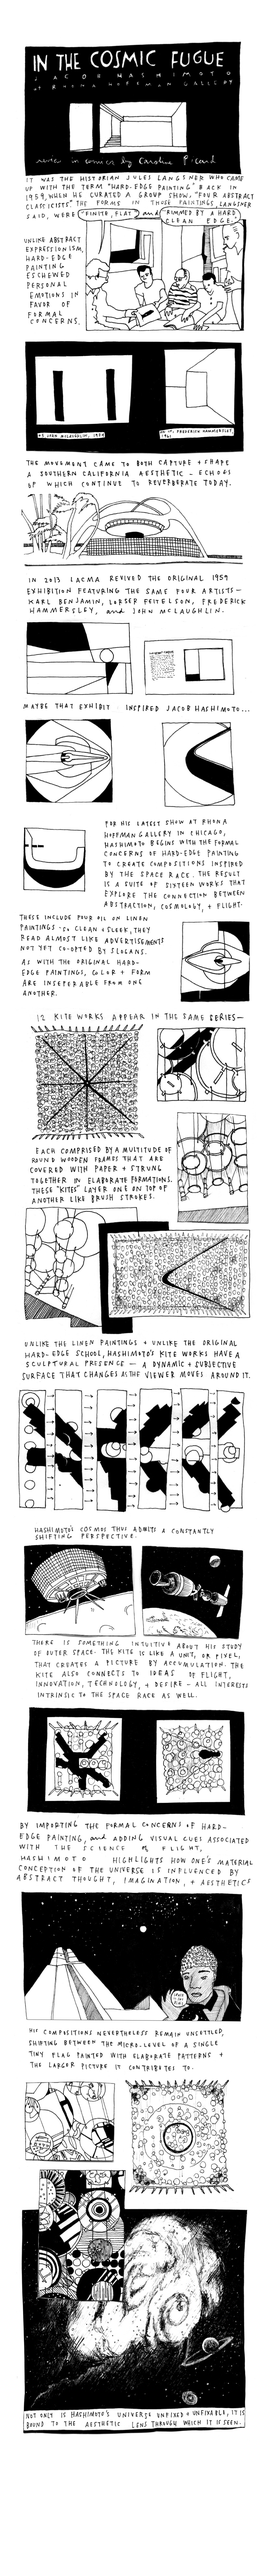
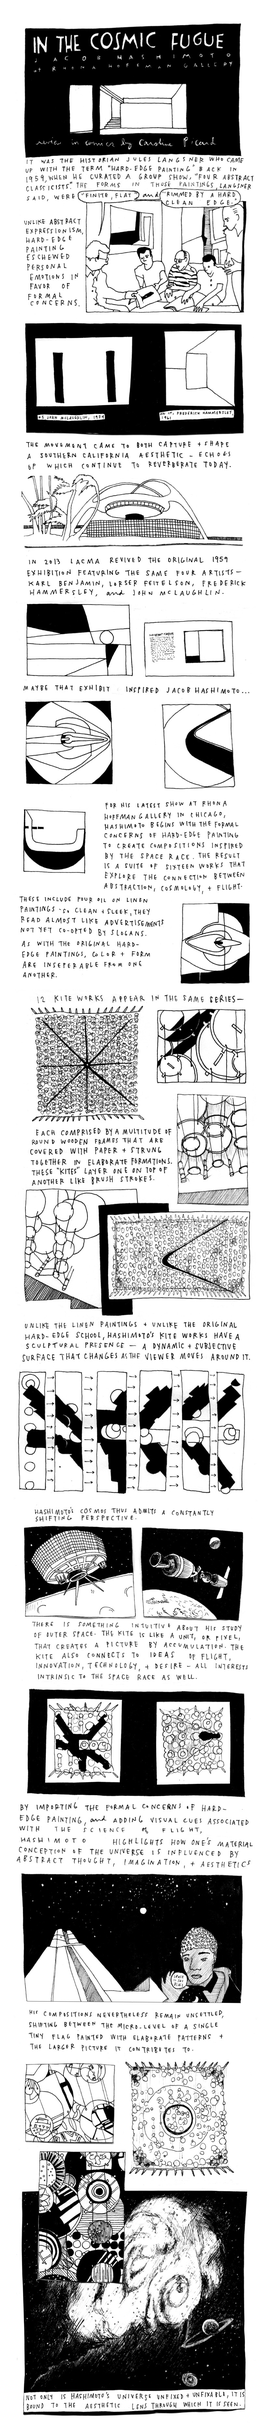
update

diff --git a/css/articles.css b/css/articles.css
@@ -1,12 +1,17 @@
+@import url("https://fonts.googleapis.com/css?family=Crete+Round");
+@import url("https://fonts.googleapis.com/css?family=Open+Sans");
+
 .article-background {
   background-color: #141518;
 }
 
 h1 {
+  font-family: 'Crete Round', sans-serif;
   color: white;
 }
 
 p {
+  font-family: 'Open Sans', sans-serif;
   color: white;
 }
 
@@ -23,13 +28,14 @@ p {
 
 .content {
   margin-top: 0px;
+  padding-bottom: 50px;
 }
 
 /**** Body ****/
 
 .comic-wrapper {
   background-color: #2C2F34;
-  margin-top: 20px;
+  margin-top: 50px;
   padding-top: 5px;
   padding-left: 30px;
   padding-right: 30px;
@@ -47,9 +53,9 @@ p {
 }
 
 .divider {
-  border-bottom: 1px solid white;
-  margin-top: 30px;
-  margin-bottom: 30px;
+  border-bottom: 1px solid #9e9e9e;
+  margin-top: 25px;
+  margin-bottom: 25px;
   margin-left: auto;
   margin-right: auto;
 }

diff --git a/picard.html b/picard.html
@@ -90,7 +90,7 @@
 
           <p>Picard, Coco. “In the Cosmic Fugue: Jacob Hashimoto at Rhona Hoffman Gallery.” <i>Sequentials</i>, no. 1, 2017.</p>
 
-          <p>Picard, Coco. “Caesar’s Bridge: A Performance by Every House Has a Door.” S<i>Sequentials</i>, no. 1, 2017.</p>
+          <p>Picard, Coco. “Caesar’s Bridge: A Performance by Every House Has a Door.” <i>Sequentials</i>, no. 1, 2017.</p>
         </div>
       </div>
     </div>

diff --git a/css/custom.css b/css/custom.css
@@ -89,6 +89,7 @@ h5 {
 /**** Homepage ****/
 
 .row {
+  margin-right: 0;
   margin-left: 0;
 }
 
